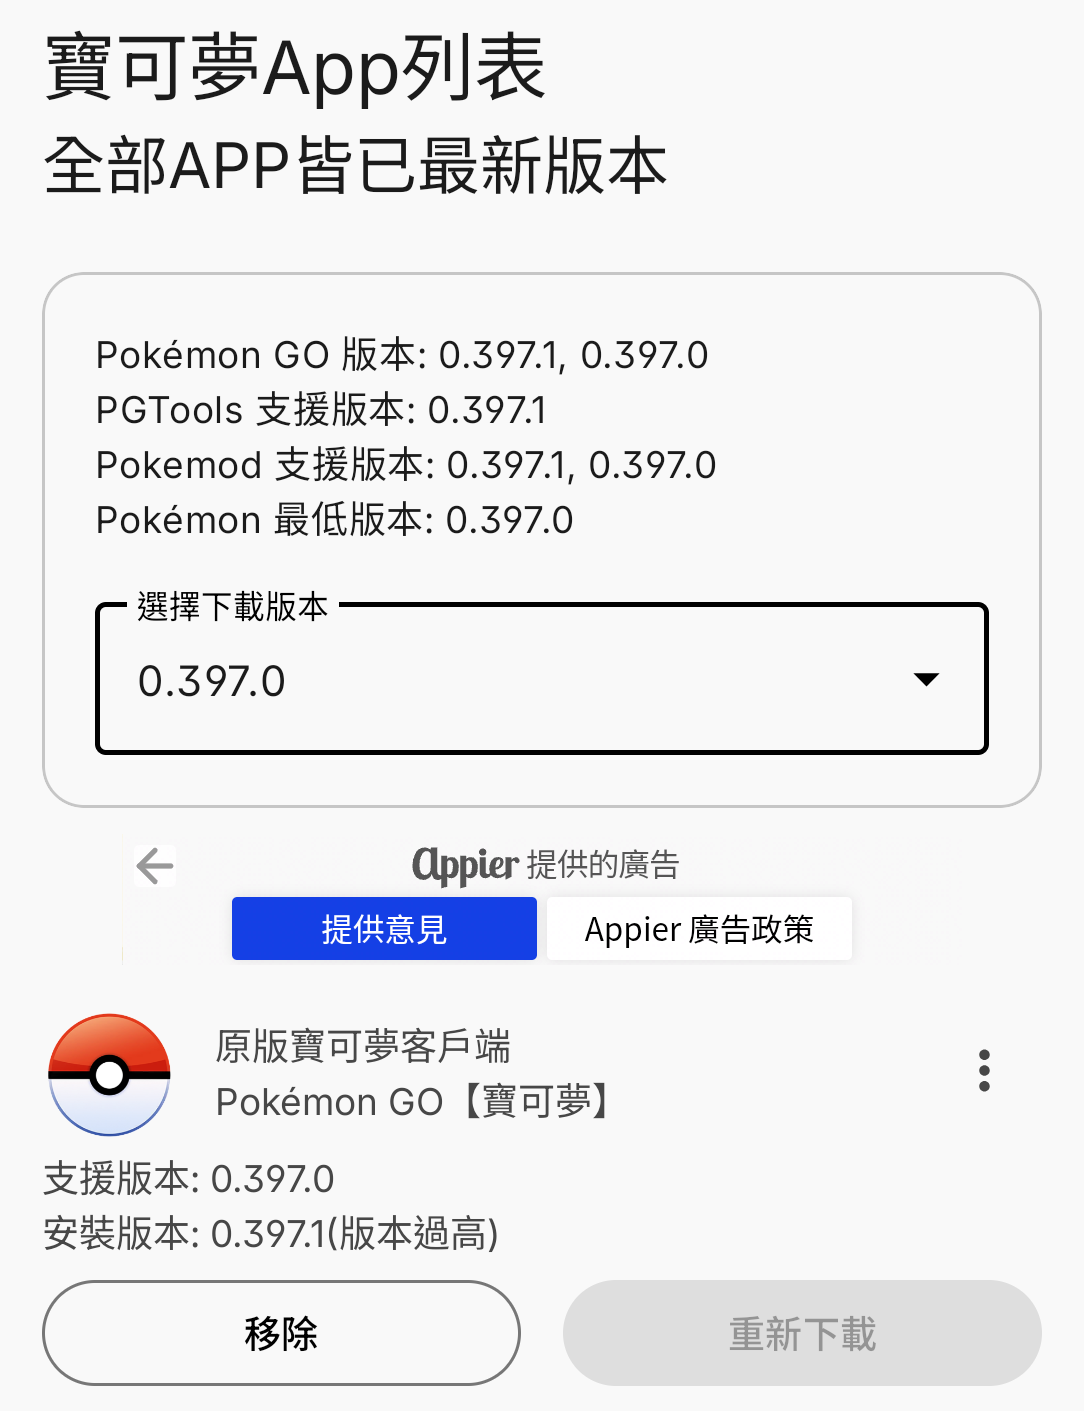
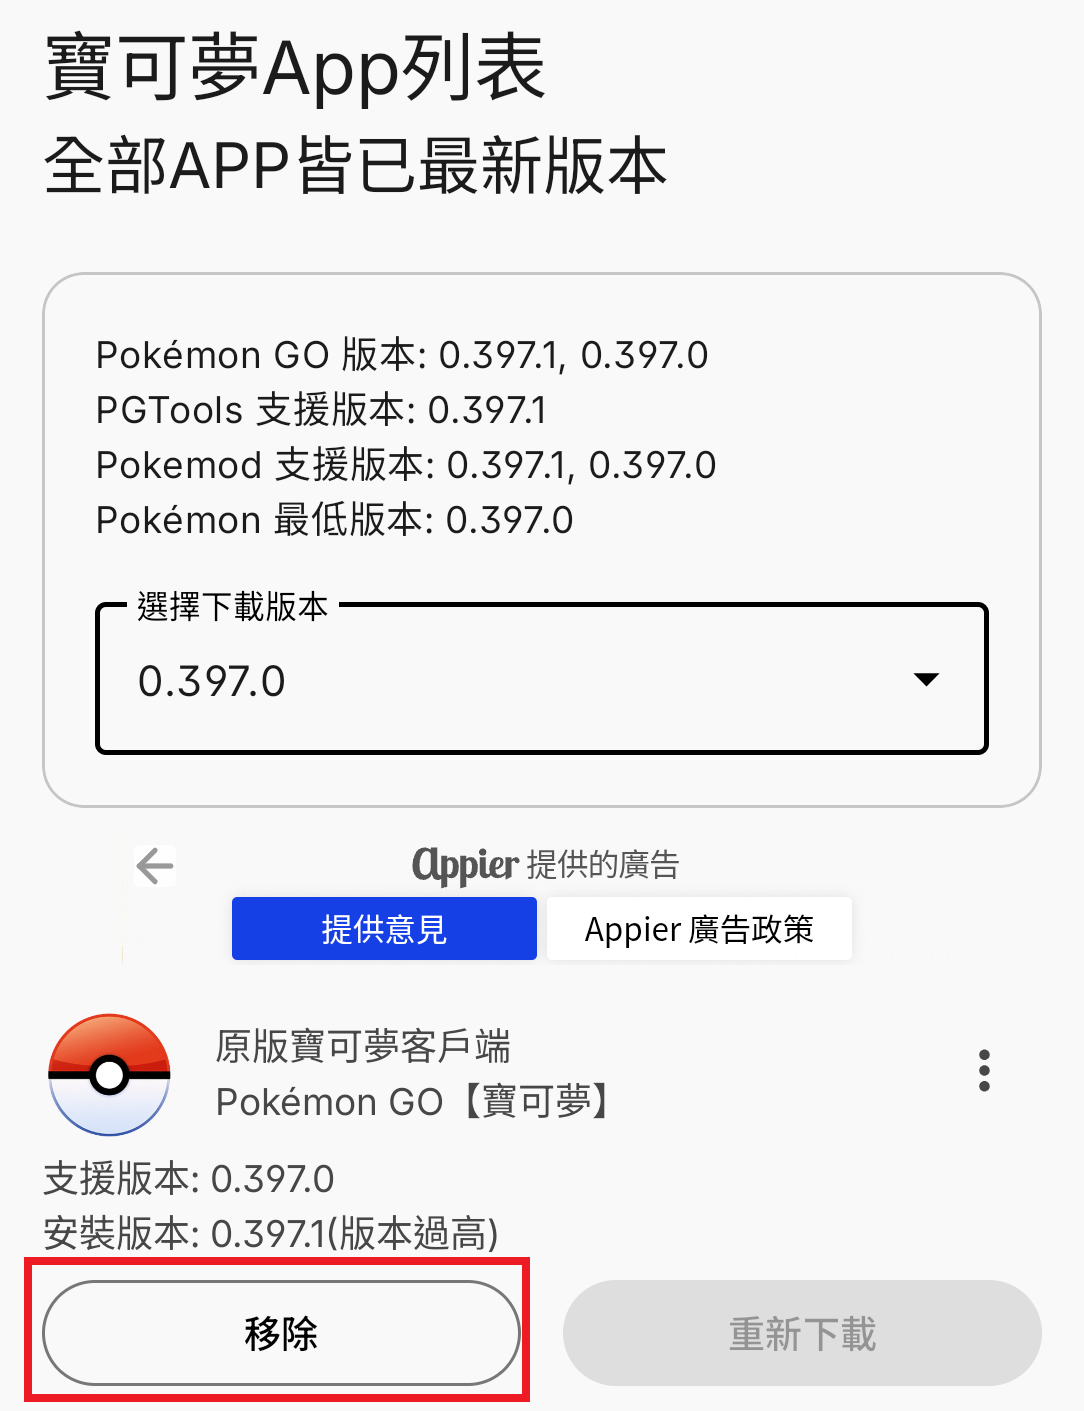
docs: update README.md & fix image link

Changed region(s): [[0.0, 0.8731, 0.4871, 0.9979]]

diff --git a/docs/README.md b/docs/README.md
@@ -122,6 +122,9 @@
 
 - 若更新檔案下載失敗，請先至Play商店更新寶可夢，並等待輔助軟體團隊更新支援
 
+### 初次安裝三星雙開版本
+
+
 
 # 建議玩法
 ## 單純改定位
@@ -248,7 +251,7 @@
 <img width="200" src="https://raw.githubusercontent.com/lokey0905/POGO_Manager/master/docs/images/JoystickStart2-1.jpg" style="margin-right:10px" /> <img width="200" src="https://raw.githubusercontent.com/lokey0905/POGO_Manager/master/docs/images/JoystickStart2-2.jpg" style="margin-right:10px" />
 
 ### 搖桿快捷鍵功能介紹
-<img width="600" src="https://hackmd.io/_uploads/BJmLGwgoR.png" style="margin-right:10px" />
+<img width="600" src="https://raw.githubusercontent.com/lokey0905/POGO_Manager/master/docs/images/Joystick.png" style="margin-right:10px" />
 
 ### 其他搖桿設定
 啟動搖桿改定位APP，點選左上角☰漢堡按鈕，設定
@@ -515,10 +518,10 @@
 
 - 請依照下方順序操作測試
 1. 請先嘗試重開機
-2. 檢查手機是否有開啟定位功能
+2. 檢查手機是否有開啟定位功能，需開啟定位功能
 3. 需要啟動搖桿改定位
 4. 嘗試將搖桿停止再重新啟動
-5. 定位權限未設定正確
+5. 定位權限未設定正確，檢查步驟如下:
 	1. 打開pogo管理器的寶可夢/魔物獵人頁面
 	2. 點擊寶可夢/魔物獵人右邊的︙管理
 
@@ -534,7 +537,7 @@
 
 		<img width="500" src="https://raw.githubusercontent.com/lokey0905/POGO_Manager/master/docs/images/settingsPokemonPermissionsLocation.png"/>
 
-6. 若重啟後還是一樣，請移除再重新安裝搖桿或寶可夢
+6. 若重啟後還是一樣，請移除再重新安裝寶可夢在重啟嘗試
 
 ## 寶可夢顯示: 無法偵測位置(12)
 表示可能偵測到模擬定位
